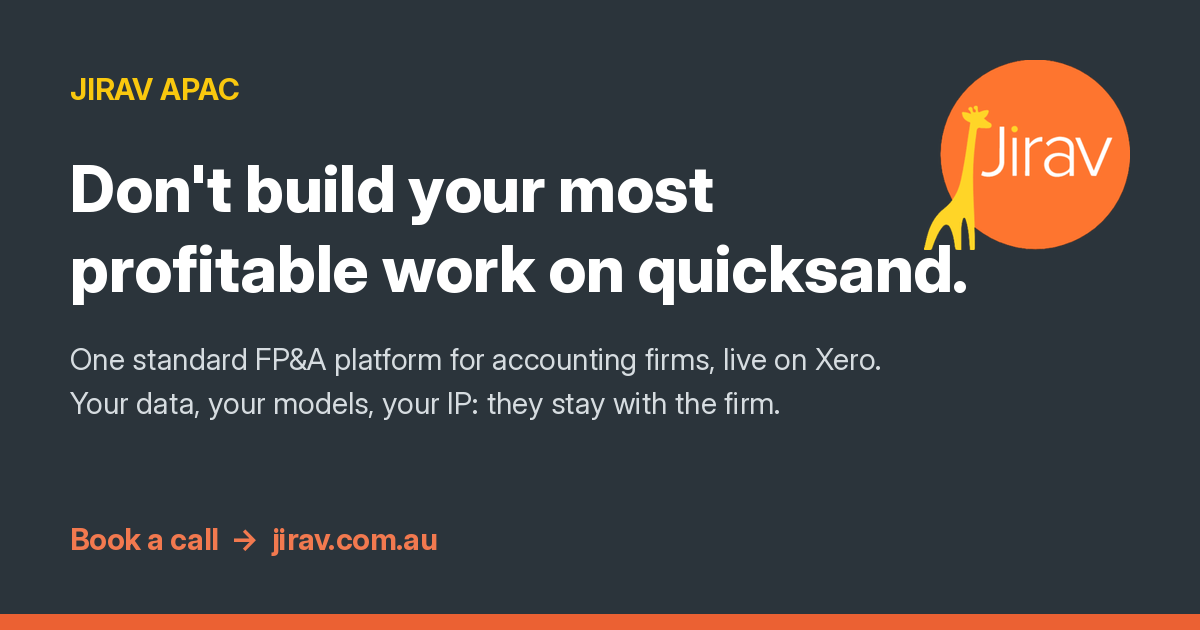
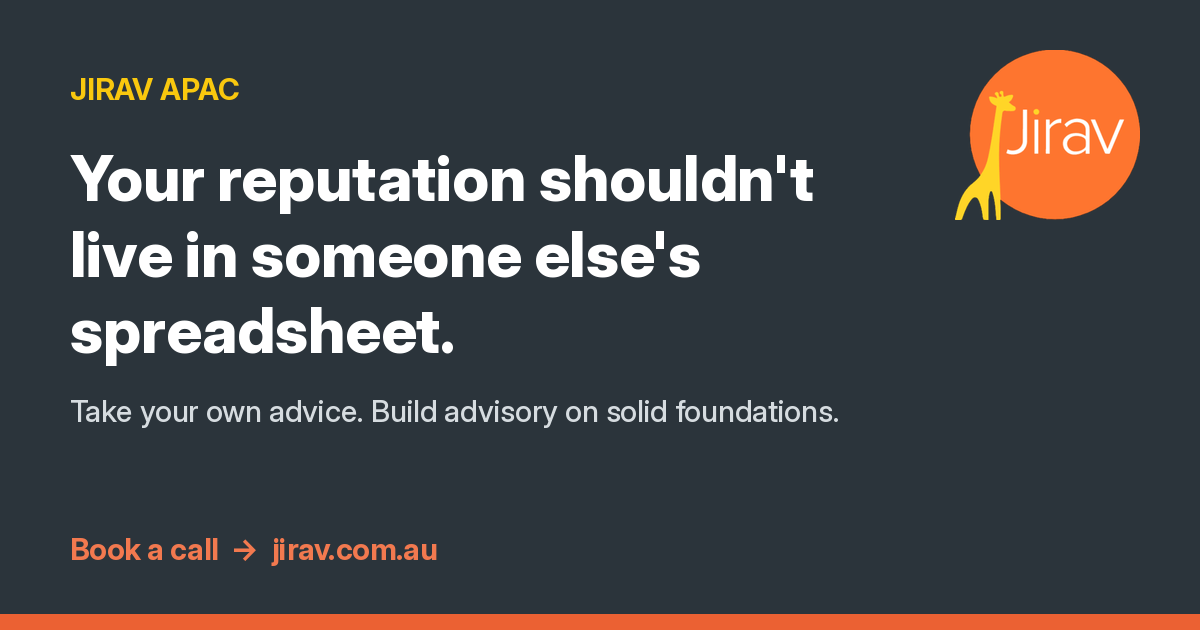
v2: reputation/risk hero, public terms, Jirav US proof points, ROI calculator CTA

Changed region(s): [[0.0617, 0.0603, 0.9558, 0.6937], [0.0617, 0.8444, 0.37, 0.9048]]

diff --git a/index.html b/index.html
@@ -3,8 +3,8 @@
 <head>
 <meta charset="utf-8">
 <meta name="viewport" content="width=device-width, initial-scale=1">
-<title>JIRAV APAC | FP&amp;A platform for accounting &amp; advisory firms, live on Xero</title>
-<meta name="description" content="Build your firm's advisory and virtual CFO work on solid foundations. Jirav is one standard FP&amp;A platform, live on Xero, so the models, data and IP stay with your firm. Book a call.">
+<title>JIRAV APAC | Protect your firm's advisory: one standard FP&amp;A platform on Xero</title>
+<meta name="description" content="Your reputation shouldn't live in someone else's spreadsheet. Jirav gives accounting and advisory firms one standard FP&amp;A platform on Xero, so models, data and client relationships stay with the firm. Transparent per-client pricing. Book a call.">
 <!-- PREVIEW ONLY: remove the noindex line below when this site goes live on jirav.com.au -->
 <meta name="robots" content="noindex, nofollow">
 <link rel="canonical" href="https://jirav.com.au/">
@@ -14,17 +14,17 @@
 <meta property="og:type" content="website">
 <meta property="og:site_name" content="JIRAV APAC">
 <meta property="og:locale" content="en_AU">
-<meta property="og:title" content="Don't build your most profitable work on quicksand | JIRAV APAC">
-<meta property="og:description" content="One standard FP&amp;A platform for accounting and advisory firms, live on Xero. Your data, your models, your IP stay with the firm.">
+<meta property="og:title" content="Your reputation shouldn't live in someone else's spreadsheet | JIRAV APAC">
+<meta property="og:description" content="Take your own advice. Build advisory on solid foundations: one standard FP&amp;A platform on Xero, owned by your firm.">
 <meta property="og:url" content="https://jirav.com.au/">
 <!-- TODO at launch: switch og:image / twitter:image to https://jirav.com.au/assets/og-image.png -->
 <meta property="og:image" content="https://jirav-roi.github.io/jirav-site/assets/og-image.png">
 <meta property="og:image:width" content="1200">
 <meta property="og:image:height" content="630">
-<meta property="og:image:alt" content="JIRAV APAC: Don't build your most profitable work on quicksand.">
+<meta property="og:image:alt" content="JIRAV APAC: Your reputation shouldn't live in someone else's spreadsheet.">
 <meta name="twitter:card" content="summary_large_image">
-<meta name="twitter:title" content="Don't build your most profitable work on quicksand | JIRAV APAC">
-<meta name="twitter:description" content="One standard FP&amp;A platform for accounting and advisory firms, live on Xero.">
+<meta name="twitter:title" content="Your reputation shouldn't live in someone else's spreadsheet | JIRAV APAC">
+<meta name="twitter:description" content="Take your own advice. Build advisory on solid foundations: one standard FP&amp;A platform on Xero.">
 <meta name="twitter:image" content="https://jirav-roi.github.io/jirav-site/assets/og-image.png">
 
 <link rel="icon" href="assets/favicon.ico" sizes="any">
@@ -61,10 +61,12 @@
     </a>
     <nav class="nav" aria-label="Main">
       <a href="#problem">Why</a>
+      <a href="#proof">Results</a>
       <a href="#how">How it works</a>
       <a href="#pricing">Pricing</a>
       <a href="#pilot">Pilot</a>
       <a href="#faq">FAQ</a>
+      <a href="https://jirav.com.au/roi-calculator">ROI calculator</a>
     </nav>
     <a class="btn btn-sm" href="https://calendar.app.google/ay4cb4AHYJNfW2js6" target="_blank" rel="noopener">Book a call<span class="sr-only"> (opens in a new tab)</span></a>
   </div>
@@ -77,16 +79,17 @@
   <div class="wrap hero-grid">
     <div>
       <span class="eyebrow">For Australian &amp; APAC accounting and advisory firms</span>
-      <h1 id="hero-title">Don't build your most profitable work on <span class="hl">quicksand.</span></h1>
-      <p class="lead">Advisory and virtual CFO work earn your best margins. But when every model lives in one accountant's spreadsheet, it walks out the door with them. Jirav gives your firm one standard FP&amp;A platform, live on Xero, so the data, the models and the client relationship stay with the firm.</p>
+      <h1 id="hero-title">Your reputation shouldn't live in <span class="hl">someone else's spreadsheet.</span></h1>
+      <p class="sub">Take your own advice. Build advisory on solid foundations.</p>
+      <p class="lead">When advisory runs on each accountant's own Excel files, the models and the client relationships go wherever they go. Jirav gives your firm one standard FP&amp;A platform on Xero, so the data, models and IP stay with the firm, and every client gets the same standard.</p>
       <div class="cta-row">
         <a class="btn btn-lg" href="https://calendar.app.google/ay4cb4AHYJNfW2js6" target="_blank" rel="noopener">Book a 20-minute call<span class="sr-only"> (opens in a new tab)</span></a>
-        <a class="textlink" href="https://jirav.com.au/roi-calculator">Or work out your ROI &rarr;</a>
+        <a class="btn btn-lg btn-outline" href="https://jirav.com.au/roi-calculator">See the numbers for your firm</a>
       </div>
       <ul class="trust" aria-label="Key facts">
         <li>Xero marketplace partner</li>
         <li>Your data and IP stay with your firm</li>
-        <li>No minimums</li>
+        <li>Transparent pricing, no minimums</li>
       </ul>
     </div>
 
@@ -118,32 +121,32 @@
 <section class="dark" id="problem" aria-labelledby="problem-title">
   <div class="wrap">
     <div class="section-head">
-      <span class="eyebrow">The problem</span>
-      <h2 id="problem-title">Your best work rests on one person's spreadsheet</h2>
-      <p class="lead">Advisory and FP&amp;A are the most profitable part of a practice. Yet most firms build them on individual accountants' Excel models. It works until it doesn't.</p>
+      <span class="eyebrow">The real risk</span>
+      <h2 id="problem-title">The biggest risk in your advisory practice isn't the numbers. It's who holds them.</h2>
+      <p class="lead">Advisory and FP&amp;A are the most profitable work in a practice, and the most personal. If every model lives in one accountant's spreadsheet, the firm carries the risk while the individual holds the asset.</p>
     </div>
     <div class="grid-3">
       <div class="card">
-        <div class="icon" aria-hidden="true">1</div>
-        <h3>When people leave, so do the models</h3>
-        <p>The forecast, the know-how and often the client relationship sit with whoever built the file. When they resign, the firm starts again, or loses the client.</p>
+        <div class="icon" aria-hidden="true">!</div>
+        <h3>Risk: people leave, and take clients with them</h3>
+        <p>The model, the know-how and often the relationship sit with whoever built the file. When they go, they can take the client and the model with them, and compete with you.</p>
       </div>
       <div class="card">
-        <div class="icon" aria-hidden="true">2</div>
-        <h3>Every client gets a different model</h3>
-        <p>Different layouts, different logic, different quality. Reviews take longer, juniors can't pick it up, and the client experience depends on who's on the job.</p>
+        <div class="icon" aria-hidden="true">&#9733;</div>
+        <h3>Reputation: your name is on every board pack</h3>
+        <p>When quality depends on who built the spreadsheet, one broken link or a missed handover lands on the firm's reputation, not the individual's.</p>
       </div>
       <div class="card">
-        <div class="icon" aria-hidden="true">3</div>
-        <h3>Growth depends on staff you can't find</h3>
-        <p>If each new advisory client needs another hard-to-hire senior to build and run a bespoke model, growth stops at the size of your team.</p>
+        <div class="icon" aria-hidden="true">&#9638;</div>
+        <h3>Standardisation: one foundation for every client</h3>
+        <p>A firm-wide platform and template means the same standard for every client, faster reviews, and work any team member can pick up. Growth stops depending on hard-to-find staff.</p>
       </div>
     </div>
     <blockquote class="analogy">
-      <p>You'd never build a house without solid foundations. In a practice, the foundation is your data. Excel feels free, and every good accountant is master of their own universe. But it's <em>their</em> universe, not yours.</p>
+      <p>You'd never let a client build a house without solid foundations. In a practice, the foundation is your data. Excel feels free, and every good accountant is master of their own universe. But it's <em>their</em> universe, not yours. Take your own advice.</p>
     </blockquote>
     <div class="cta-row">
-      <a class="btn" href="https://calendar.app.google/ay4cb4AHYJNfW2js6" target="_blank" rel="noopener">Talk to us about your foundations<span class="sr-only"> (opens in a new tab)</span></a>
+      <a class="btn" href="https://calendar.app.google/ay4cb4AHYJNfW2js6" target="_blank" rel="noopener">Talk to us about protecting your firm<span class="sr-only"> (opens in a new tab)</span></a>
     </div>
   </div>
 </section>
@@ -173,10 +176,9 @@
     <ul class="pillars">
       <li><strong>The firm owns the data and the IP.</strong> Models live on the firm's platform, not on someone's laptop.</li>
       <li><strong>Consistent delivery.</strong> Every client gets the same standard, whoever is on the job.</li>
-      <li><strong>Easier to delegate.</strong> A shared template means more of your team can do the work.</li>
+      <li><strong>Easier to delegate.</strong> Models live in one shared platform, so the work doesn't depend on the one person who built it.</li>
       <li><strong>Keep Excel for the thinking.</strong> Jirav is the system of record, not a ban on spreadsheets.</li>
     </ul>
-    <!-- PROOF PLACEHOLDER: add a real APAC case study or an approved, correctly attributed quote here (e.g. a Jirav US partner firm, labelled as US). Do NOT reuse the misattributed Anders CPA / ProcurePro quote from the old site. -->
     <div class="new">
       <span class="badge">New &middot; Sep 2026</span>
       <div>
@@ -187,19 +189,58 @@
   </div>
 </section>
 
+<!-- 3b. PROOF: Jirav US customer case studies (verified against jirav.com, 12 Oct 2026) -->
+<section id="proof" aria-labelledby="proof-title">
+  <div class="wrap">
+    <div class="section-head">
+      <span class="eyebrow">Proof</span>
+      <h2 id="proof-title">What firms using Jirav found</h2>
+      <p class="lead">These are Jirav US customers, quoted from case studies Jirav, Inc. has published on jirav.com. US firms, US results: your results will depend on your firm.</p>
+    </div>
+    <!-- APAC PROOF PLACEHOLDER: add the first Australian / APAC firm case study here once a pilot has measured results and the firm has approved the quote. -->
+    <div class="proof">
+      <figure class="proof-card">
+        <p class="proof-stat">2&times;</p>
+        <p class="proof-stat-label">average new client fee</p>
+        <blockquote><p>&ldquo;I was the only one who could update or use the model&hellip; With Jirav, anybody can access and update models, without worrying about it breaking. And we can do the same for any number of other clients.&rdquo;</p></blockquote>
+        <figcaption><strong>John Nevel, CPA, CEO, Compass East</strong>CAS firm, Nashville, 25+ staff<br><span class="us-tag">Jirav US customer</span></figcaption>
+        <a class="src" href="https://www.jirav.com/customer-case-study/compass-east" target="_blank" rel="noopener">Read the Compass East case study<span class="sr-only"> (opens in a new tab)</span></a>
+      </figure>
+      <figure class="proof-card">
+        <p class="proof-stat">94%</p>
+        <p class="proof-stat-label">client retention, &ldquo;thanks in part to the in-depth modeling and forecasting they deliver with Jirav&rdquo;</p>
+        <blockquote><p>&ldquo;That kind of consistent, dependable attention has helped fuel our growth, and it&rsquo;s also part of the reason we have a 94% client retention rate.&rdquo;</p></blockquote>
+        <figcaption><strong>Jody Grunden, Co-founder &amp; CEO, Summit CPA Group</strong>Virtual CFO firm, 150 clients, Jirav rolled out to 80<br><span class="us-tag">Jirav US customer</span></figcaption>
+        <a class="src" href="https://www.jirav.com/customer-case-study/summit-cpa-builds-advisory-led-client-relationships-with-jirav" target="_blank" rel="noopener">Read the Summit CPA case study<span class="sr-only"> (opens in a new tab)</span></a>
+      </figure>
+      <figure class="proof-card">
+        <p class="proof-stat">6 figures</p>
+        <p class="proof-stat-label">new business a year</p>
+        <blockquote><p>&ldquo;Jirav gave us the ability to provide solutions at scale, enabling us to onboard new clients without adding staff.&rdquo;</p></blockquote>
+        <figcaption><strong>Curt Mastio, Principal, Founder&rsquo;s CPA</strong>Outsourced CFO firm, Chicago<br><span class="us-tag">Jirav US customer</span></figcaption>
+        <a class="src" href="https://www.jirav.com/customer-case-study/founders-cpa-scales-strategic-advisory-services" target="_blank" rel="noopener">Read the Founder&rsquo;s CPA case study<span class="sr-only"> (opens in a new tab)</span></a>
+      </figure>
+    </div>
+    <div class="cta-row">
+      <a class="btn" href="https://calendar.app.google/ay4cb4AHYJNfW2js6" target="_blank" rel="noopener">Book a call to see it on your own data<span class="sr-only"> (opens in a new tab)</span></a>
+    </div>
+  </div>
+</section>
+
 <!-- 4. OFFERS -->
-<section id="pricing" aria-labelledby="pricing-title">
+<section class="alt" id="pricing" aria-labelledby="pricing-title">
   <div class="wrap">
     <div class="section-head">
       <span class="eyebrow">Two ways to work with us</span>
       <h2 id="pricing-title">Deliver it yourself, or let us deliver it under your brand</h2>
-      <p class="lead">Simple per-client pricing. Start with one client and grow from there.</p>
+      <p class="lead">Full, public pricing, so you can see the numbers and judge whether it makes sense for your firm. Per client, with no minimums.</p>
     </div>
     <div class="offers">
       <article class="offer" aria-labelledby="offer1">
         <h3 id="offer1">Platform</h3>
         <p class="who">For firms whose own team delivers the advisory work.</p>
         <p class="price">A$300 <small>per client / month</small></p>
+        <p class="annual">A$3,600 per client a year, billed annually upfront</p>
         <ul>
           <li>Jirav FP&amp;A platform for each client, connected to their Xero</li>
           <li>Your firm's standard model, reused across clients</li>
@@ -214,6 +255,7 @@
         <h3 id="offer2">Platform + Service</h3>
         <p class="who">For firms that want advisory revenue without the delivery effort or the hiring.</p>
         <p class="price">A$600 <small>per client / month</small></p>
+        <p class="annual">A$7,200 per client a year, billed annually upfront</p>
         <ul>
           <li>Everything in Platform</li>
           <li>We deliver a white-labelled monthly board pack under your firm's brand</li>
@@ -224,8 +266,16 @@
         <a class="btn" href="https://calendar.app.google/ay4cb4AHYJNfW2js6" target="_blank" rel="noopener">Book a call<span class="sr-only"> about Platform + Service (opens in a new tab)</span></a>
       </article>
     </div>
-    <!-- PRICING NOTE: confirm with Rees whether to show prices publicly and whether to state contract terms (e.g. 12 months per client, billed annually). -->
-    <p class="fine">Prices are in Australian dollars, per client per month. No GST is currently charged. Onboarding is quoted separately, and your first client's onboarding is free (see the pilot below).</p>
+    <div class="terms" id="terms">
+      <h3>The terms, in plain English</h3>
+      <ul>
+        <li><strong>Contract:</strong> 12 months per client, billed annually upfront.</li>
+        <li><strong>Onboarding:</strong> A$2,000 per client, for each client after your first.</li>
+        <li><strong>Pilot:</strong> your first client's onboarding (A$2,000) and first month are free. Billing starts in month 2, on the 12-month contract.</li>
+        <li><strong>No minimums:</strong> no minimum number of clients or spend.</li>
+        <li><strong>Currency and tax:</strong> Australian dollars. No GST is currently charged.</li>
+      </ul>
+    </div>
   </div>
 </section>
 
@@ -235,9 +285,8 @@
     <div>
       <span class="eyebrow">What it could mean for your firm</span>
       <h2 id="revenue-title">Recurring advisory revenue, without the delivery load</h2>
-      <p class="lead">On Platform + Service, firms typically resell at roughly double what they pay. That leaves about A$600 a month margin per client, and we do the monthly delivery.</p>
-      <p>Want the fuller picture, including time saved? <a href="https://jirav.com.au/roi-calculator">Try the ROI calculator</a>.</p>
-    </div>
+      <p class="lead">Platform + Service is priced so your firm can resell it at around double. At about A$1,200 a client a month, that leaves roughly A$600 a month margin per client, while our team does the monthly delivery.</p>
+          </div>
     <div class="calc-box">
       <span class="illus">Illustrative example</span>
       <label for="clients">Advisory clients on Platform + Service</label>
@@ -258,6 +307,13 @@
     </div>
   </div>
   <div class="wrap">
+    <div class="calc-band">
+      <div>
+        <h3>See the numbers for your firm</h3>
+        <p>Put in your own retainer, client count and hours. The ROI calculator shows what the change could mean for your firm.</p>
+      </div>
+      <a class="btn btn-lg" href="https://jirav.com.au/roi-calculator">Open the ROI calculator</a>
+    </div>
     <div class="cta-row">
       <a class="btn" href="https://calendar.app.google/ay4cb4AHYJNfW2js6" target="_blank" rel="noopener">Run the numbers with us<span class="sr-only"> (opens in a new tab)</span></a>
     </div>
@@ -275,10 +331,14 @@
         <div class="cta-row">
           <a class="btn btn-lg" href="https://calendar.app.google/ay4cb4AHYJNfW2js6" target="_blank" rel="noopener">Book your pilot call<span class="sr-only"> (opens in a new tab)</span></a>
         </div>
+        <blockquote class="pilot-quote">
+          <p>&ldquo;My advice is to start by building one or two forecasts for clients to get the hang of it.&rdquo;</p>
+          <footer>Tom Wadelton, virtual CFO, Summit CPA Group (Jirav US customer). <a href="https://www.jirav.com/customer-case-study/summit-cpa-builds-advisory-led-client-relationships-with-jirav" target="_blank" rel="noopener">Source<span class="sr-only"> (opens in a new tab)</span></a></footer>
+        </blockquote>
       </div>
       <ul class="pilot-list">
         <li>Free onboarding for your first client (worth A$2,000)</li>
-        <li>First month free</li>
+        <li>First month free. Billing starts in month 2</li>
         <li>Connected live to your client's own Xero</li>
         <li>No minimum number of clients</li>
       </ul>
@@ -296,7 +356,7 @@
     <div class="faq">
       <details>
         <summary>Who owns the data and the models?</summary>
-        <p>Your firm does. Each client's Jirav sits on the firm's platform, built from the firm's templates. If a staff member leaves, the models, history and know-how stay with you.</p>
+        <p>Your firm does. Each client's Jirav sits on the firm's platform, built from the firm's templates. If a staff member leaves, the models, history and know-how stay with the firm, which protects both the client relationship and your reputation.</p>
       </details>
       <details>
         <summary>How does Jirav work with Xero?</summary>
@@ -319,9 +379,12 @@
         <p>Released in September 2026, Jirav drafts commentary inside the board pack from the client's actual numbers. A person on your team (or ours) reviews and edits it before it's sent.</p>
       </details>
       <details>
-        <summary>Are there minimums or set-up fees?</summary>
-        <p>There's no minimum number of clients. Your first client's onboarding (worth A$2,000) and first month are free. We'll walk you through terms for further clients on a call.</p>
-        <!-- TERMS PLACEHOLDER: confirm with Rees whether to state contract length / billing (12 months per client, annual upfront) and onboarding price for later clients. -->
+        <summary>What are the terms?</summary>
+        <p>Each client is on a 12-month contract, billed annually upfront: A$3,600 a year on Platform or A$7,200 on Platform + Service. Onboarding is A$2,000 per client after your first. There's no minimum number of clients, and no GST is currently charged.</p>
+      </details>
+      <details>
+        <summary>How does the pilot work?</summary>
+        <p>Your first client gets free onboarding (worth A$2,000) and a free first month, connected live to their own Xero. Billing starts in month 2, on the standard 12-month contract.</p>
       </details>
       <details>
         <summary>Who are JIRAV APAC?</summary>
@@ -338,10 +401,11 @@
 <!-- 8. FINAL CTA -->
 <section class="alt final" aria-labelledby="final-title">
   <div class="wrap">
-    <h2 id="final-title">Put your advisory on solid ground</h2>
+    <h2 id="final-title">Take your own advice. Build on solid foundations.</h2>
     <p class="lead">One standard platform. Your data, your IP, your brand. Start with one client.</p>
     <div class="cta-row">
       <a class="btn btn-lg" href="https://calendar.app.google/ay4cb4AHYJNfW2js6" target="_blank" rel="noopener">Book a 20-minute call<span class="sr-only"> (opens in a new tab)</span></a>
+      <a class="btn btn-lg btn-outline" href="https://jirav.com.au/roi-calculator">See the numbers for your firm</a>
     </div>
     <p class="cta-note" style="margin-top:18px">Prefer email? <a href="mailto:rees@jirav.com.au">rees@jirav.com.au</a></p>
   </div>
@@ -372,7 +436,7 @@
       </div>
     </div>
     <div class="legal">
-      <p>&copy; 2026 Digital Commerce Pty Ltd, trading as JIRAV APAC, a Jirav partner. <!-- ABN PLACEHOLDER: add "ABN XX XXX XXX XXX" once Rees confirms --> Jirav is a trademark of Jirav, Inc. Xero is a trademark of Xero Limited.</p>
+      <p>&copy; 2026 Digital Commerce Pty Ltd, trading as JIRAV APAC, a Jirav partner. <!-- ABN PLACEHOLDER: add "ABN XX XXX XXX XXX" once Rees confirms --> Customer stories on this page are Jirav US customers, as published by Jirav, Inc. on jirav.com. Jirav is a trademark of Jirav, Inc. Xero is a trademark of Xero Limited.</p>
     </div>
   </div>
 </footer>

diff --git a/styles.css b/styles.css
@@ -187,3 +187,40 @@ section{padding:72px 0}
 @media (min-width:768px){.mobile-cta{display:none}}
 .pack-tag{white-space:nowrap}
 @media (max-width:767px){.site-header .btn{display:none}}
+
+/* v2 additions */
+.btn-outline{background:transparent;color:var(--ink);border-color:var(--ink)}
+.btn-outline:hover{background:var(--ink);color:#fff;border-color:var(--ink)}
+.dark .btn-outline{color:#fff;border-color:#fff}
+.dark .btn-outline:hover{background:#fff;color:var(--ink)}
+.hero .sub{font-size:clamp(1.25rem,2.4vw,1.5rem);font-weight:700;color:var(--ink);margin:-.1em 0 .7em}
+.proof{display:grid;gap:22px}
+@media (min-width:900px){.proof{grid-template-columns:repeat(3,1fr)}}
+.proof-card{background:#fff;border:1px solid var(--line);border-radius:var(--radius);padding:28px;display:flex;flex-direction:column}
+.proof-stat{font-size:2.4rem;font-weight:800;line-height:1;color:var(--orange-text);margin-bottom:.15em;letter-spacing:-.02em}
+.proof-stat-label{font-weight:700;margin-bottom:1em}
+.proof-card blockquote{margin:0 0 1.2em;padding:0;font-size:1.02rem;flex:1}
+.proof-card blockquote p{margin:0}
+.proof-card figcaption{font-size:.92rem;color:var(--muted)}
+.proof-card figcaption strong{color:var(--ink);display:block}
+.us-tag{display:inline-block;margin-top:8px;font-size:.72rem;font-weight:800;letter-spacing:.06em;text-transform:uppercase;background:var(--cream);color:var(--ink);border:1px solid var(--line);border-radius:999px;padding:3px 9px}
+.proof-card .src{margin-top:12px;font-size:.92rem;font-weight:600}
+.terms{margin-top:28px;background:var(--cream);border-radius:var(--radius);padding:24px 26px}
+.terms h3{margin-bottom:.5em}
+.terms ul{margin:0;padding-left:1.2em}
+.terms li{margin:6px 0}
+.annual{font-size:.92rem;color:var(--muted);margin:-.2em 0 0}
+.calc-band{margin-top:48px;display:grid;gap:18px;align-items:center;background:var(--orange-strong);color:#fff;border-radius:18px;padding:30px}
+@media (min-width:860px){.calc-band{grid-template-columns:1fr auto;padding:36px 40px}}
+.calc-band h3{font-size:1.5rem;margin-bottom:.3em;color:#fff}
+.calc-band p{margin:0;color:#fff}
+.calc-band .btn{background:#fff;color:var(--ink);border-color:#fff}
+.calc-band .btn:hover{background:var(--cream);border-color:var(--cream)}
+.pilot-quote{margin:22px 0 0;padding:16px 18px;border-left:4px solid var(--yellow);background:var(--cream);border-radius:0 10px 10px 0;font-size:.98rem}
+.pilot-quote p{margin:0 0 6px}
+.pilot-quote footer{font-size:.88rem;color:var(--muted)}
+.proof-card{margin:0}
+.terms{background:#fff;border:1px solid var(--line)}
+@media (min-width:960px){.hero h1{font-size:3.1rem}}
+.hero .cta-row{gap:12px 14px}
+.hero .cta-row .btn-lg{padding:.95em 1.4em;font-size:1.08rem}

diff --git a/README.md b/README.md
@@ -4,4 +4,4 @@ Static marketing site for JIRAV APAC (preview). Plain HTML/CSS with a little JS 
 
 - Preview: https://jirav-roi.github.io/jirav-site/
 - **Preview only.** No custom domain. The page carries `noindex`. The live site (jirav.com.au) and the ROI calculator repo are untouched.
-- Before launch: remove the `robots noindex` meta, point `og:image` to the production domain, fix the 404 page paths, and fill in the placeholders (search `PLACEHOLDER`).
+- Before launch: remove the `robots noindex` meta, point `og:image` to the production domain, fix the 404 page paths (they use /jirav-site/), and fill in the placeholders (search `PLACEHOLDER`).
